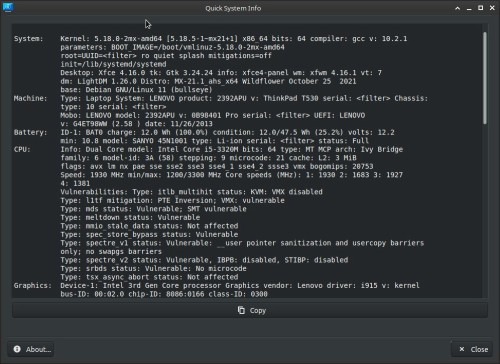
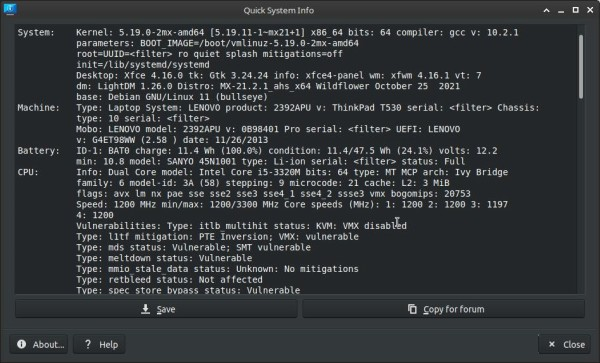
update help, bump changelog, edit "authors"

diff --git a/help/quick-system-info-gui.html b/help/quick-system-info-gui.html
@@ -11,12 +11,14 @@
 <img src="1.jpg" alt="Main display" />
 
 <p>Displays a report based on inxi and a few custom parameters for MX Linux.</p>
-<p>Use the copy button at the bottom of the report display to copy the report to the clipboard in a format suitable </p>
+<p>Use the "Copy for Forum" button at the bottom of the report display to copy the report to the clipboard in a format suitable </p>
 <p>for directly pasting into a forum post, complete with code tags</p>
+<p></p>
+<p>Use the "Save" button to save the report to a text file</p>
 
 
 
-<p>Development history: Dolphin_Oracle</p>
+<p>Development history: MX Linux</p>
 
 <p>License: GPL 3</p>
 

diff --git a/main.cpp b/main.cpp
@@ -3,9 +3,7 @@
  **********************************************************************
  * Copyright (C) 2015 MX Authors
  *
- * Authors: Adrian
- *          Paul David Callahan
- *          Dolphin Oracle
+ * Authors: Dolphin Oracle, AK-47, Adrian
  *          MX Linux <http://mxlinux.org>
  *
  * This file is part of mx-welcome.

diff --git a/mainwindow.cpp b/mainwindow.cpp
@@ -3,9 +3,7 @@
  **********************************************************************
  * Copyright (C) 2015 MX Authors
  *
- * Authors: Adrian
- *          Paul David Callahan
- *          Dolphin Oracle
+ * Authors: Dolphin Oracle, AK-47, Adrian
  *          MX Linux <http://mxlinux.org>
  *
  * This file is part of mx-welcome.

diff --git a/mainwindow.h b/mainwindow.h
@@ -3,9 +3,7 @@
  **********************************************************************
  * Copyright (C) 2015 MX Authors
  *
- * Authors: Adrian
- *          Paul David Callahan
- *          Dolphin Oracle
+ * Authors: Dolphin Oracle, AK-47, Adrian
  *          MX Linux <http://mxlinux.org>
  *
  * This file is part of mx-welcome.
